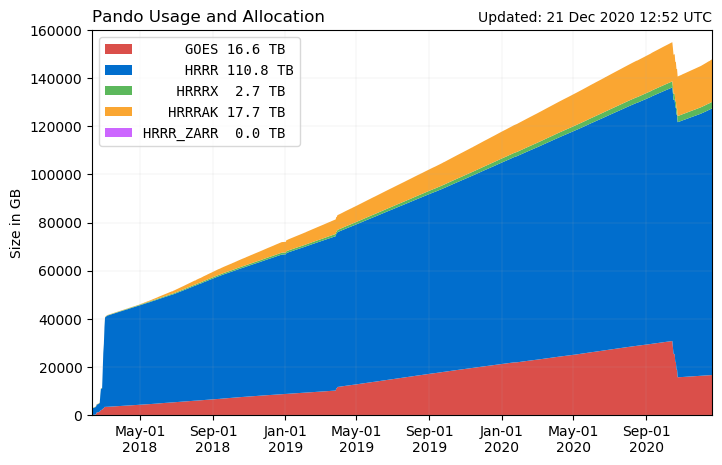
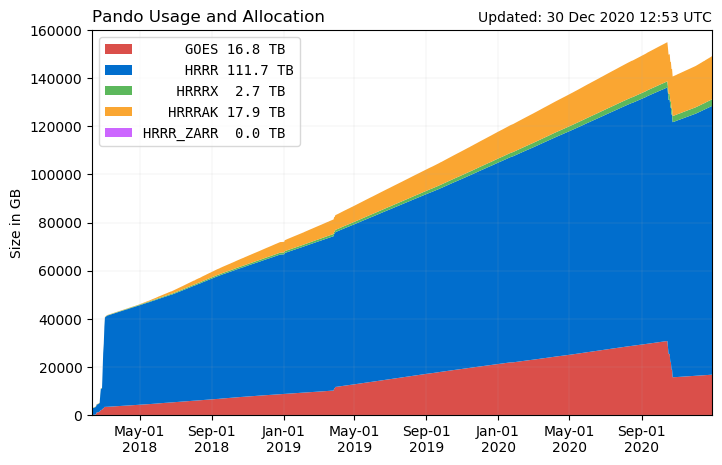
updates

diff --git a/Pando_archive/index.html b/Pando_archive/index.html
@@ -46,12 +46,12 @@
 
 <br>
   <script src='./js/pando_status.js'></script>
-    <center><font size=12> 147.8 TB out of 160 TB</font>
+    <center><font size=12> 149.2 TB out of 160 TB</font>
     <div class="progress" style="max-width:700px;height:35px">
             <div class="progress-bar progress-bar-danger" role="progressbar" style="width:10%">
               <font size=4></font>
             </div>
-            <div class="progress-bar progress-bar-primary" role="progressbar" style="width:69%">
+            <div class="progress-bar progress-bar-primary" role="progressbar" style="width:70%">
               <font size=4></font>
             </div>
             <div class="progress-bar progress-bar-success" role="progressbar" style="width:2%">
@@ -76,9 +76,9 @@
         <th style='text-align:center'>Estimated Full Date</th>
       </tr>
       <tr>
-        <td>147.87 GB</td>
-        <td>82</td>
-        <td>13 March 2021</td>
+        <td>149.59 GB</td>
+        <td>72</td>
+        <td>12 March 2021</td>
       </tr>
     </table>
     <table class="table table-bordered" style='text-align:center;max-width:700px'>
@@ -95,12 +95,12 @@
       <tr>
         <th style='text-align:right'>GLM-L2-LCFA</th>
         <td>0.00</td>
-        <td>0.72</td>
+        <td>0.69</td>
       </tr>
       <tr>
         <th style='text-align:right'>Total</th>
         <th style='text-align:center'>0.00 GB</th>
-        <th style='text-align:center'>16.94 GB</th>
+        <th style='text-align:center'>16.92 GB</th>
       </tr>
     </table>
 
@@ -114,13 +114,13 @@
       </tr>
       <tr>
         <th style='text-align:right'>sfc</th>
-        <td>91.12</td>
-        <td>3.38</td>
-        <td>27.03</td>
+        <td>92.83</td>
+        <td>2.86</td>
+        <td>27.61</td>
       </tr>
       <tr>
         <th style='text-align:right'>prs</th>
-        <td>9.40</td>
+        <td>9.37</td>
         <td>0.00</td>
         <td>0.00</td>
       </tr>
@@ -132,9 +132,9 @@
       </tr>
       <tr>
         <th style='text-align:right'>Total</th>
-        <th style='text-align:center'>100.52 GB</th>
-        <th style='text-align:center'>3.38 GB</th>
-        <th style='text-align:center'>27.03 GB</th>
+        <th style='text-align:center'>102.21 GB</th>
+        <th style='text-align:center'>2.86 GB</th>
+        <th style='text-align:center'>27.61 GB</th>
       </tr>
     </table>
 
@@ -145,7 +145,7 @@
     <a href="https://github.com/blaylockbk/Web-Homepage/blob/master/Pando_archive/index.html"><i class="fab fa-github"></i> Page</a>
     <a href="https://github.com/blaylockbk/Web-Homepage/blob/master/Pando_archive/daily_usage.py"><i class="fab fa-github"></i> Plot</a>
     <br>
-    Last Updated: 21 Dec 2020 12:52 UTC
+    Last Updated: 30 Dec 2020 12:54 UTC
   </div>
 
 </div>

diff --git a/hrrr_FAQ.html b/hrrr_FAQ.html
@@ -752,6 +752,12 @@
                         <b>37</b>, 211-228,
                         <a href='https://doi.org/10.1175/JTECH-D-18-0192.1'>https://doi.org/10.1175/JTECH-D-18-0192.1</a>.
                     <p style="text-indent:-20px">
+                        Reynolds, D., J. M. Pflug, J. D. Lundquist, 2020:
+                        Evaluating Wind Fields for Use in Basin-Scale Distributed Snow Models.
+                        <i>Water Resources Research</i>,
+                        <b>In Press</b>
+                        <a href='https://doi.org/10.1029/2020WR028536'>https://doi.org/10.1029/2020WR028536</a>.
+                    <p style="text-indent:-20px">
                         Rosenow, A.A., K. Howard, and J. Meitin, 2018:
                         Gap-Filling Mobile Radar Observations of a Snow Squall in the San Luis Valley.
                         <i>Mon. Wea. Rev.</i>,
